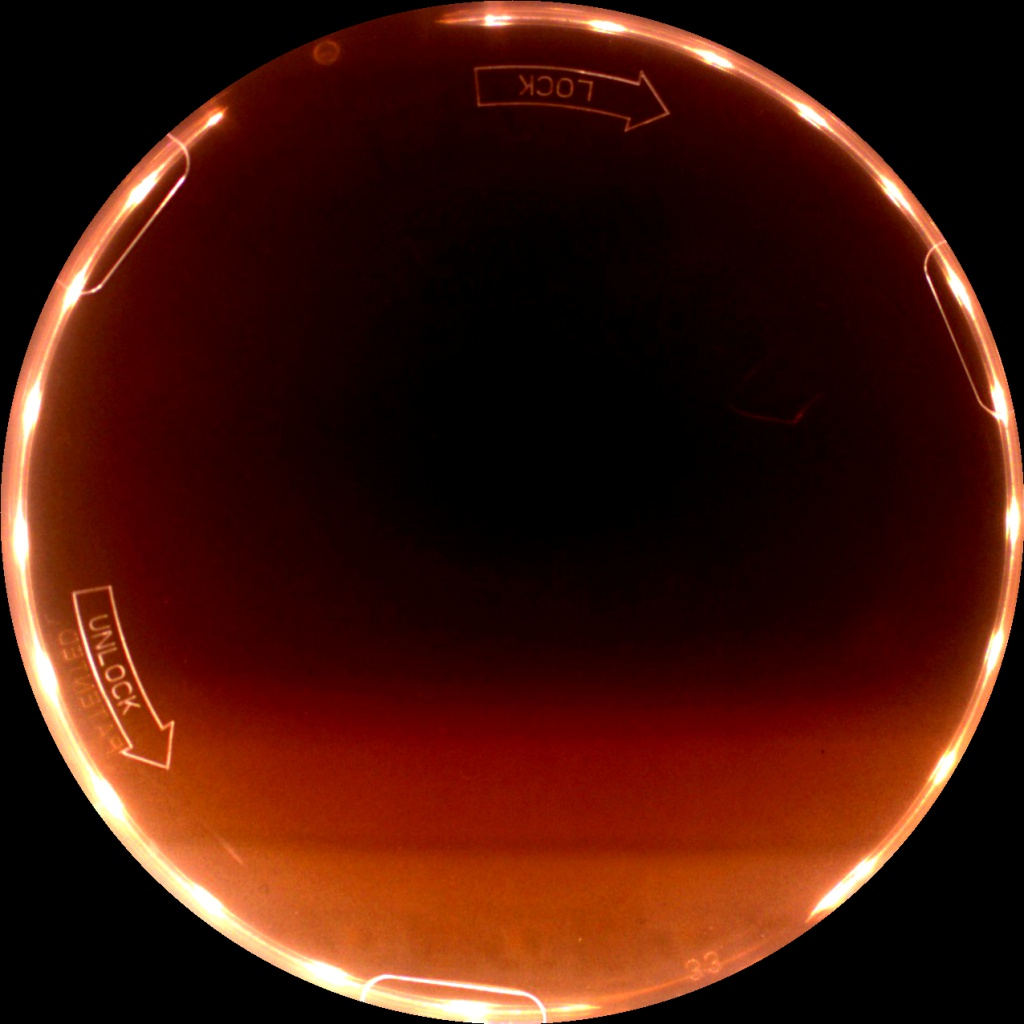
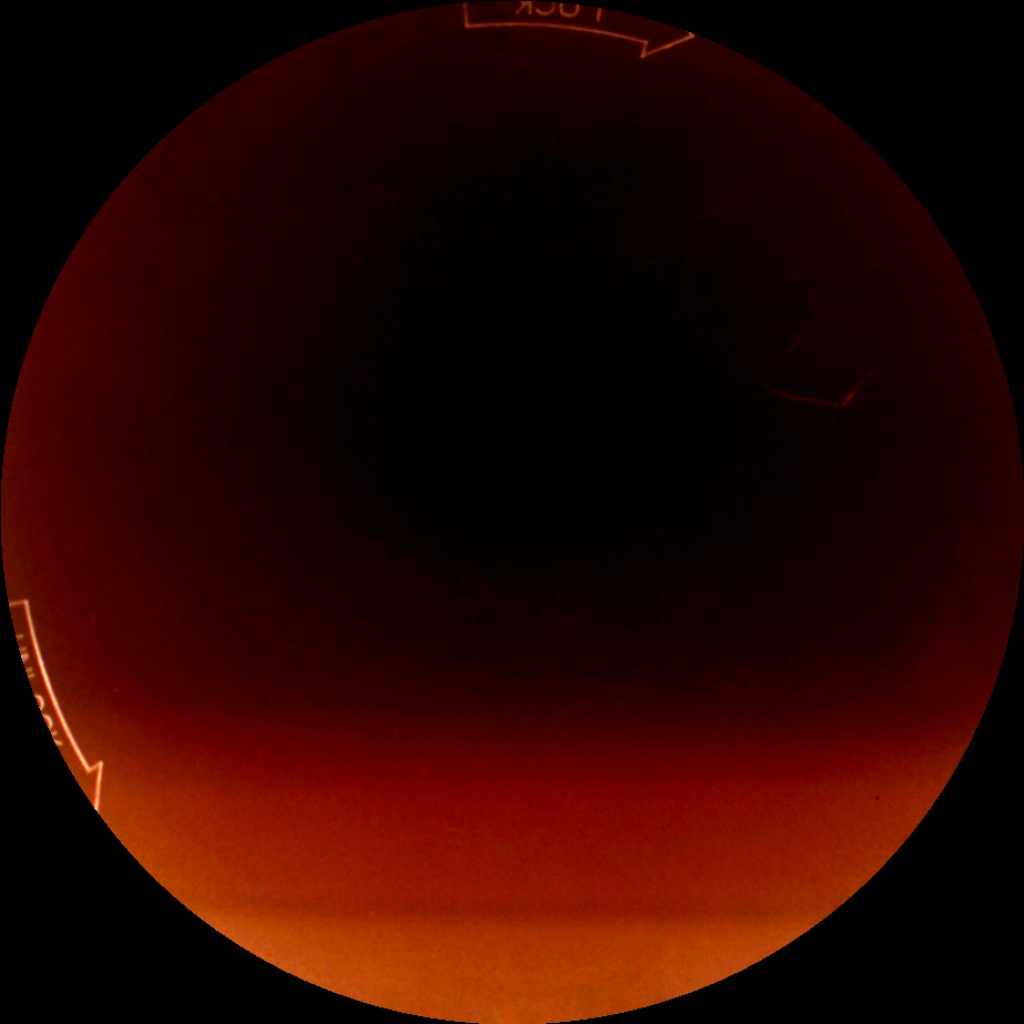
two step radius search in preprocess

diff --git a/pre_process.py b/pre_process.py
@@ -7,7 +7,7 @@ from os.path import isfile, join
 #from skimage.filters import threshold_sauvola
 import time
 from aux import Circular_mask, ScaleImage, DrawCircles, EnhanceContrast
-from circle import Find_Best_Circle, Find_Optimum_Circles
+from circle import Find_Best_Center, Find_Optimum_Circles, Find_Best_Radius
 
 
 
@@ -20,84 +20,103 @@ def main():
     for file in file_names:
         begin_time = time.time()
         new_name = os.path.join(processed_path, file)
-        try:
-            #Read the image
-            img = cv2.imread(folder_path+'/'+file)
-            print(f"Processing {file[0:-4]}", end = "->  ")
+        #try:
+        #Read the image
+        img = cv2.imread(folder_path+'/'+file)
+        print(f"Processing {file[0:-4]}", end = "->  ")
 
-            # Scale all images to the same 1512 pixels
-            # Keep resolution fairly high for Hough transform
-            img_scaled = ScaleImage(img, width=1536)
+        # Scale all images to the same 1512 pixels
+        # Keep resolution fairly high for Hough transform
+        img_scaled = ScaleImage(img, width=1536)
 
-            #Hough Transform parameters
-            accum_res  = 3 # image resolution/accum resolution, 4 means accum is 1/4th of image
-            min_between = 4 #Min dist between circles. 
-            minRadius = 600 #Min radius of a circle. 
-            maxRadius= 740 #The bigest circle expected
-            Canny_thr = 1100 #anything above that is an edge automatically in Canny, the lower threshold is half of that.
-            Accum_thr = 1100 #accumulator threshold for the circle centers at the detection stage
-            params_Hough = [accum_res, min_between, Canny_thr, Accum_thr, minRadius, maxRadius]
+        #Hough Transform parameters
+        accum_res  = 3 # image resolution/accum resolution, 4 means accum is 1/4th of image
+        min_between = 4 #Min dist between circles. 
+        minRadius = 610 #Min radius of a circle. 
+        maxRadius= 740 #The bigest circle expected
+        Canny_thr = 1100 #anything above that is an edge automatically in Canny, the lower threshold is half of that.
+        Accum_thr = 1100 #accumulator threshold for the circle centers at the detection stage
+        params_Hough = [accum_res, min_between, Canny_thr, Accum_thr, minRadius, maxRadius]
 
-            Circles = Find_Optimum_Circles(params_Hough, img_scaled, 10, 30)
-            print(f"{len(Circles):10} circles")
+        Circles = Find_Optimum_Circles(params_Hough, img_scaled, 10, 30)
+        print(f"{len(Circles):10} circles")
 
-            #If there are any circles, filter them by centricity and dI/dR
-            if len(Circles)>0:
-                # In the list of centers, find the center of the true ROI
-                # Check along the radius, from start to end, steping every step pixels
-                # These are different form similar numbers in Hough params
-                # Becasue Hough needs to be stable, but this procidure needs to be precise
-                BestCirc = Find_Best_Circle(circles = Circles,
-                                             image= img_scaled,
-                                              start= 200,
-                                              end = 720,
-                                              step = 10)
+        #If there are any circles, filter them by centricity and dI/dR
+        if len(Circles)>0:
+            # In the list of centers, find the center of the true ROI
+            # Check along the radius, from start to end, steping every step pixels
+            # These are different form similar numbers in Hough params
+            # Becasue Hough needs to be stable, but this procidure needs to be precise
+            BestCirc = Find_Best_Center(circles = Circles,
+                                            image= img_scaled,
+                                            start= 180,
+                                            end = 720,
+                                            step = 10)
 
-                # Draw the best circel on the image
-                # img_scaled= DrawCircles(BestCirc, img_scaled)
+            # Draw the best circel on the image
+            # img_scaled= DrawCircles(BestCirc, img_scaled)
 
-                if len(BestCirc[0])>2:
-                    #Create a new image that is a square bounding this circular ROI
-                    x = BestCirc[0][0]  # X coordinate of center
-                    y = BestCirc[0][1]  # Y coordinate of center
-                    r = BestCirc[0][2]  # Radius
+            if len(BestCirc[0])>2:
+                #Create a new image that is a square bounding this circular ROI
+                x = BestCirc[0][0]  # X coordinate of center
+                y = BestCirc[0][1]  # Y coordinate of center
+                r = BestCirc[0][2]  # Radius
 
-                    # Apply circluar mask around best circle, set everything outside to 0
-                    h = img_scaled.shape[0]
-                    w = img_scaled.shape[1]
-                    hole = Circular_mask(h, w, center = (x,y), radius = r)
-                    img_scaled[~hole] = 0
-                    top_edge = max(y-r, 0)
-                    bottom_edge = min(y+r, h)
-                    left_edge = max(x-r,0)
-                    right_edge = min(x+r,w)
-                    #Cut out the region of interest around this circle
-                    ROI_image = img_scaled[top_edge:bottom_edge, left_edge:right_edge, :]
+                # Apply circluar mask around best circle, set everything outside to 0
+                h = img_scaled.shape[0]
+                w = img_scaled.shape[1]
+                hole = Circular_mask(h, w, center = (x,y), radius = r)
+                img_scaled[~hole] = 0
+                top_edge = max(y-r, 0)
+                bottom_edge = min(y+r, h)
+                left_edge = max(x-r,0)
+                right_edge = min(x+r,w)
+                #Cut out the region of interest around this circle
+                First_Iter = img_scaled[top_edge:bottom_edge, left_edge:right_edge, :]
+                First_Iter = ScaleImage(First_Iter, width = 1024)
 
-                    # Enhance contrast
-                    contrast_enh = EnhanceContrast(ROI_image, -20, 45) 
+                # Enhance contrast
+                First_Iter = EnhanceContrast(First_Iter, -20, 45) 
 
-                    """
-                    #Threshold the edges to remove residual LED glare
-                    th = cv2.adaptiveThreshold(contrast_enh[:,:,0],255,cv2.ADAPTIVE_THRESH_MEAN_C, cv2.THRESH_BINARY,41,22)
-                    th = cv2.bitwise_not(th)
-                    kernel = np.ones((5, 5), np.uint8)
-                    dilated = cv2.dilate(th , kernel, iterations = 10)
-                    edge_mask = Circular_mask(dilated.shape[0], dilated.shape[1], radius = int(0.48*dilated.shape[0]))
-                    mask = (~edge_mask) & (dilated > 244)
-                    contrast_enh[mask] = 0
-                    """
+                # Second iteration - now go by intensity, not derivative
+                h2 = First_Iter.shape[0]
+                w2 = First_Iter.shape[1]
+                y2 = First_Iter.shape[0]//2
+                x2 = First_Iter.shape[1]//2
+                r2 = Find_Best_Radius(center = (x2,y2), 
+                                        image = First_Iter,
+                                        start= 450, end = 510, step = 4,
+                                        thresh= 0.02)
 
-                    # Write final file to disk
-                    # Scale the new image to 1024 pixels
-                    # We do not need more than 512 for NN anyway
-                    final = ScaleImage(contrast_enh, width = 1024)
-                    if os.path.exists(new_name):
-                        os.remove(new_name)
-                    cv2.imwrite(new_name , final)
-                    print(f" done in {(time.time() - begin_time):.2f} sec")
-        except:
-            print(f'Something went wrong on {file}')
+                new_hole = Circular_mask(h2, w2, center = (x2,y2), radius = r2)
+                First_Iter[~new_hole] = 0
+                top_edge = max(y2-r2, 0)
+                bottom_edge = min(y2+r2, h2)
+                left_edge = max(x2-r2,0)
+                right_edge = min(x2+r2,w2)
+                ROI_image = First_Iter[top_edge:bottom_edge, left_edge:right_edge, :]
+                
+                """
+                #Threshold the edges to remove residual LED glare
+                th = cv2.adaptiveThreshold(contrast_enh[:,:,0],255,cv2.ADAPTIVE_THRESH_MEAN_C, cv2.THRESH_BINARY,41,22)
+                th = cv2.bitwise_not(th)
+                kernel = np.ones((5, 5), np.uint8)
+                dilated = cv2.dilate(th , kernel, iterations = 10)
+                edge_mask = Circular_mask(dilated.shape[0], dilated.shape[1], radius = int(0.48*dilated.shape[0]))
+                mask = (~edge_mask) & (dilated > 244)
+                contrast_enh[mask] = 0
+                """
+
+                # Write final file to disk
+                # Scale the new image to 1024 pixels
+                # We do not need more than 512 for NN anyway
+                final = ScaleImage(ROI_image, width = 1024)
+                if os.path.exists(new_name):
+                    os.remove(new_name)
+                cv2.imwrite(new_name , final)
+                print(f" done in {(time.time() - begin_time):.2f} sec")
+        #except:
+            #print(f'Something went wrong on {file}')
     print(f"Overall for {len(file_names)} images {time.time()-start_time:.1f}sec")
 
 if __name__ == '__main__':

diff --git a/circle.py b/circle.py
@@ -83,7 +83,7 @@ def Find_All_Circles(params, input_img):
     else:
         return [], img_gr
 
-def Find_Best_Circle(circles, image, start: int, end: int, step:int):
+def Find_Best_Center(circles, image, start: int, end: int, step:int):
     '''
     Find the circle that had the sharpest change brightness as we move away from its center
     '''
@@ -104,7 +104,8 @@ def Find_Best_Circle(circles, image, start: int, end: int, step:int):
     for i, circle in enumerate(circles):
         #Calculate how intensity changes (i.e. derivative) as the radius increases.       
         Deriv_f_R = Deriv(img_gr,  (circle[0], circle[1]), Start_rad, End_rad, Deriv_Step)
-
+        # Do median filtration
+        Deriv_f_R  = signal.medfilt(Deriv_f_R , 3)
         #Find what was the sharpest change for this circle, 
         MaxDeriv = np.max(Deriv_f_R)
         circle[4] =  int(MaxDeriv * 1000) # we strore it in int array
@@ -146,6 +147,30 @@ def Find_Best_Circle(circles, image, start: int, end: int, step:int):
             return_value.append(best_rad )
             break
     return [return_value]
+
+def Find_Best_Radius(center, image, start: int, end: int, step:int, thresh):
+    '''
+    Find the circle that had the sharpest change brightness as we move away from its center
+    '''
+    #Take blue channel, threshold the hell out of it, to leave only LED
+    img_gr = cv2.adaptiveThreshold(image[:,:,0],255,cv2.ADAPTIVE_THRESH_GAUSSIAN_C, cv2.THRESH_BINARY,81,15)
+    img_gr = cv2.bitwise_not(img_gr)
+    kernel = np.ones((2, 2), np.uint8)
+    img_gr = cv2.erode(img_gr , kernel, iterations = 3)
+
+    Int_arr = [Intensity(img_gr, center, rad, step) for rad in range (start, end, step)]
+    Int_arr = signal.medfilt(Int_arr, 3)
+    Int_arr  = np.round(Int_arr , 3)
+    print(Int_arr )
+
+    # Go through the deriv until it crosses the pre-defined trhreshold
+    # Add Start_rad pixels from the center, we only started there, not at 0
+    for i in range(len(Int_arr )):
+        if Int_arr [i] > thresh:
+            best_rad = start+i*step
+            print(f"Crossed at {best_rad }")
+            return( best_rad )
+    return end
 
 def Find_Optimum_Circles(params_Hough, img, min_num, max_num):
     """
